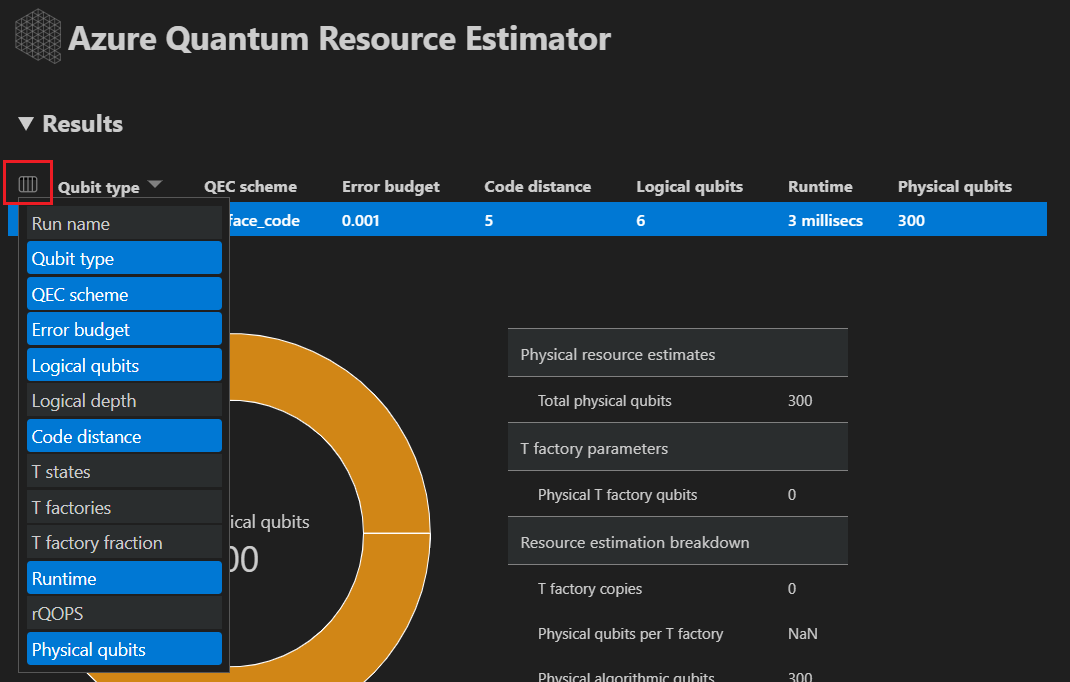
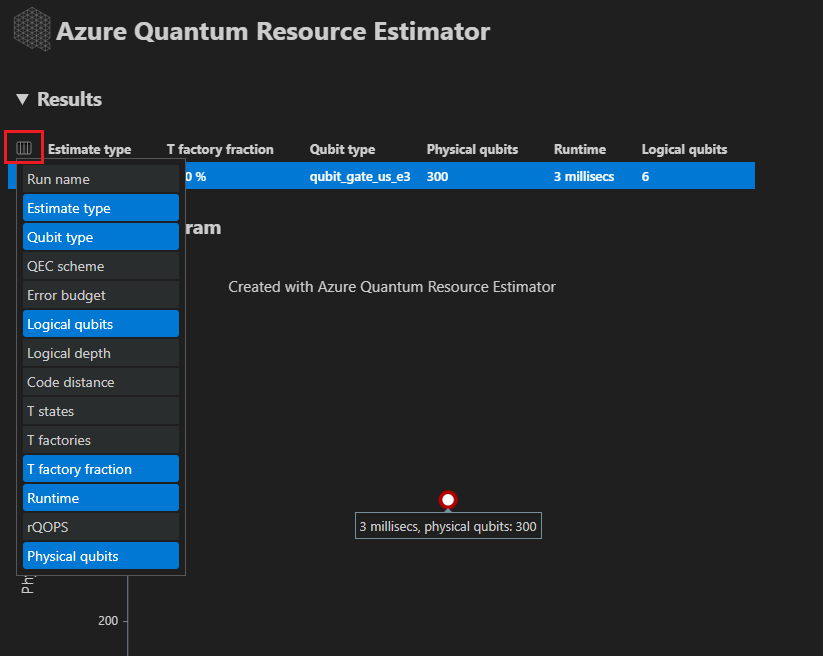
typos

diff --git a/articles/quickstart-microsoft-resources-estimator.md b/articles/quickstart-microsoft-resources-estimator.md
@@ -43,13 +43,24 @@ In this example, you run the Resource Estimator using the `qubit_gate_us_e3` qub
 
 ## View the results
 
+The Resource Estimator provides multiple estimates for the same algorithm, each showing tradeoffs between the number of qubits and the runtime. Understanding the tradeoff between runtime and system scale is one of the more important aspects of resource estimation.  
+
 1. The result of the resource estimation is displayed in the **Q# Estimate** window.
-1. The **Results** tab displays a summary of the resource estimation. **Click the icon** next to the first row to select the columns you want to display. You can select from run name, qubit type, qec scheme, error budget, logical qubits, logical depth, code distance, T states, T factories, T factory fraction, runtime, rQOPS, and physical qubits.
+1. The **Results** tab displays a summary of the resource estimation. **Click the icon** next to the first row to select the columns you want to display. You can select from run name, estimate type, qubit type, qec scheme, error budget, logical qubits, logical depth, code distance, T states, T factories, T factory fraction, runtime, rQOPS, and physical qubits.
 
     :::image type="content" source="media/vscode-estimates-local-results-tab.png" alt-text="Screen shot showing how to display the menu to select the resource estimate outputs of your choice.":::
 
+    In the **Estimate type** column of the results table, you can see the number of optimal combinations of *{number of qubits, runtime}* for your algorithm. These combinations can be seen in the space-time diagram.
+
     > [!NOTE]
     > If you select more than one qubit parameters and error correction codes in the configuration, the results are displayed in different rows in the **Results** tab. Clicking on a result from the table brings up the corresponding space diagram and report data.
+
+1. The **Space-time diagram** shows the tradeoffs between the number of physical qubits and the runtime of the algorithm. In this case, the Resource Estimator finds 13 different optimal combinations out of many thousands possible ones. You can hover over each {number of qubits, runtime} point to see the details of the resource estimation at that point.  For more information, see [Space-time diagram](xref:microsoft.quantum.overview.resources-estimator-output.data#space-time-diagram).
+
+    :::image type="content" source="media/vscode-estimates-local-diagram-space-time.png" alt-text="Screen shot showing the space diagram of the Resource Estimator .":::
+
+    > [!NOTE]
+    > You need to **click on one point** of the space-time diagram, that is a {number of qubits, runtime} pair, to see the space diagram and the details of the resource estimation corresponding to that point.
 
 1. The **Space diagram** tab displays the distribution of physical qubits used for the algorithm and the [T factories](xref:microsoft.quantum.concepts.tfactories). In this example, the algorithm qubits and the total qubits are the same because the algorithm does not use any T factory copies. For more information, see [Space-time diagrams](xref:microsoft.quantum.overview.resources-estimator-output.data#space-time-diagrams).
 
